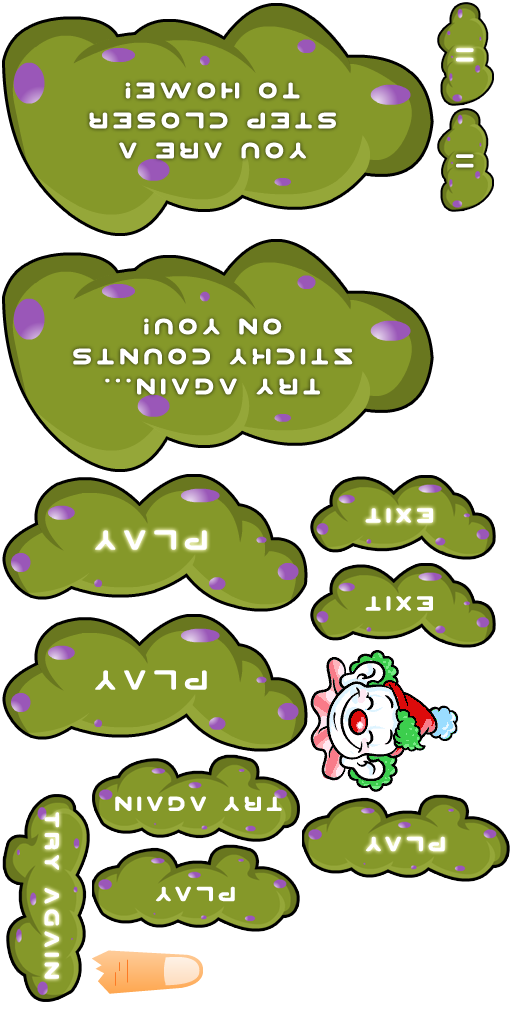
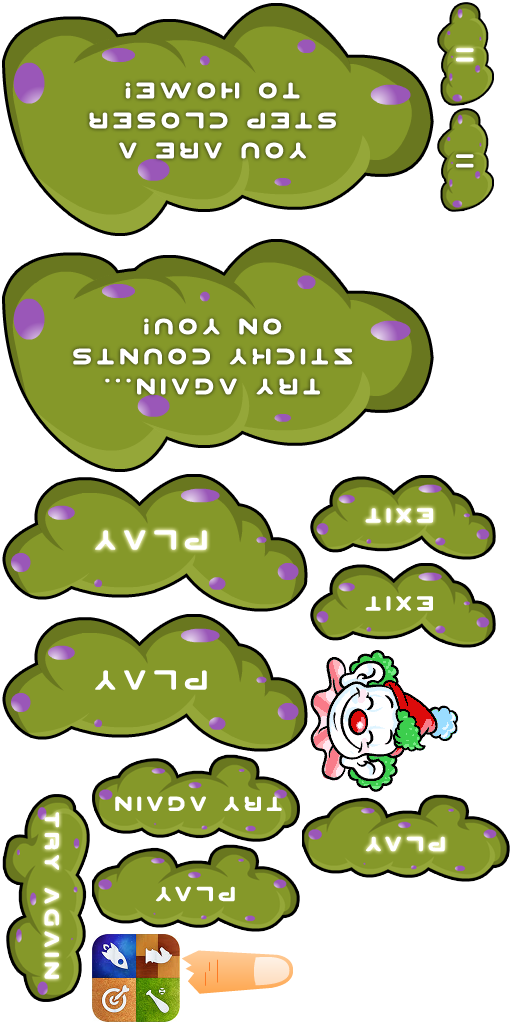
Added Game Center Leaderboard button.

Changed region(s): [[0.1562, 0.9062, 0.5938, 1.0]]

diff --git a/TunnelJoggler/Scenes/MainScene.mm b/TunnelJoggler/Scenes/MainScene.mm
@@ -104,6 +104,15 @@
 		[_currentLevelLabel setPosition:ccp(s.width/2 - 120, s.height/2)];
         _currentLevelLabel.rotation = 90;
         
+        CCMenuItem *itemGameCenter = [SoundMenuItem itemFromNormalSpriteFrameName:@"hero-gamecenter.png" selectedSpriteFrameName:@"hero-gamecenter.png" target:self selector:@selector(highScoreGameCenter:)];
+		CCMenu *menuGameCenter = [CCMenu menuWithItems: itemGameCenter, nil];
+		menuGameCenter.position = ccp(s.width/2 - 40, s.height - 44);
+        id scaleGameCenterButtonTo = [CCScaleTo actionWithDuration:0.5f scale:0.9f];
+		id scaleGameCenterButtonBack = [CCScaleTo actionWithDuration:0.5f scale:1.0f];
+        seq = [CCSequence actions:scaleGameCenterButtonTo, scaleGameCenterButtonBack, nil];
+        [itemGameCenter runAction:[CCRepeatForever actionWithAction:seq]];
+		[self addChild:menuGameCenter];
+        
         [[NSNotificationCenter defaultCenter] addObserver:self
                                                  selector:@selector(reloadGameData:)
                                                      name:NSPersistentStoreCoordinatorStoresDidChangeNotification
@@ -200,6 +209,10 @@
 
 -(void)reloadGameData:(id)sender {
     NSLog(@"reloadGameData called.");
+}
+
+- (void)highScoreGameCenter:(id)sender {
+    
 }
 
 //-(void) soundOnOff:(id)sender {
